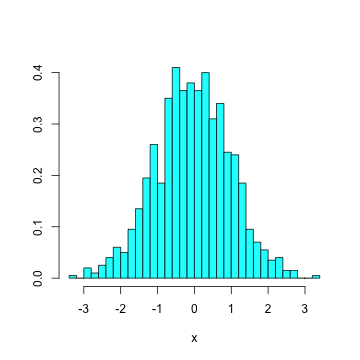
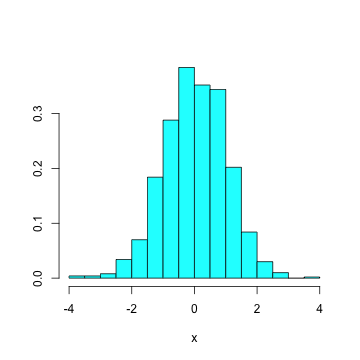
More bug fixes to r_basics

diff --git a/notes/r_basics.md b/notes/r_basics.md
@@ -10,12 +10,12 @@ R is controlled from a command line interface (CLI), or shell. Many platform-dep
 
 
 ```r
-# Import a package called \342\200\234MASS\342\200\235
+# Import a package called “MASS”
 library(MASS)
 # Generate 1000 standard normal random deviates, and
-#   assign them to variable \342\200\234x\342\200\235
+#   assign them to variable “x”
 x = rnorm(1000)
-# Do the same for \342\200\234y\342\200\235
+# Do the same for “y”
 y = rnorm(1000)
 # Return first 4 values of the vector x
 x[1:4]
@@ -24,7 +24,7 @@ x[1:4]
 
 
 ```
-[1] -1.4710  0.1954 -0.7531  0.2773
+[1] -0.8459  0.4320  0.7762 -0.4060
 ```
 
 
@@ -64,17 +64,17 @@ Call:
 lm(formula = y ~ x)
 
 Residuals:
-    Min      1Q  Median      3Q     Max 
--2.8966 -0.6555  0.0211  0.6615  2.8316 
+   Min     1Q Median     3Q    Max 
+-3.301 -0.677 -0.003  0.713  2.983 
 
 Coefficients:
             Estimate Std. Error t value Pr(>|t|)
-(Intercept)  0.01752    0.03061    0.57     0.57
-x            0.00976    0.03027    0.32     0.75
+(Intercept) -0.00266    0.03253   -0.08     0.93
+x            0.02430    0.03232    0.75     0.45
 
-Residual standard error: 0.968 on 998 degrees of freedom
-Multiple R-squared: 0.000104,	Adjusted R-squared: -0.000898 
-F-statistic: 0.104 on 1 and 998 DF,  p-value: 0.747 
+Residual standard error: 1.03 on 998 degrees of freedom
+Multiple R-squared: 0.000566,	Adjusted R-squared: -0.000435 
+F-statistic: 0.565 on 1 and 998 DF,  p-value: 0.452 
 
 ```
 
@@ -921,33 +921,6 @@ The following object(s) are masked from 'nests (position 3)':
 The following object(s) are masked from 'nests (position 4)':
 
     eggs, lat, lon, parasite, species
-The following object(s) are masked from 'nests (position 5)':
-
-    eggs, lat, lon, parasite, species
-The following object(s) are masked from 'nests (position 6)':
-
-    eggs, lat, lon, parasite, species
-The following object(s) are masked from 'nests (position 7)':
-
-    eggs, lat, lon, parasite, species
-The following object(s) are masked from 'nests (position 8)':
-
-    eggs, lat, lon, parasite, species
-The following object(s) are masked from 'nests (position 9)':
-
-    eggs, lat, lon, parasite, species
-The following object(s) are masked from 'nests (position 11)':
-
-    eggs, lat, lon, parasite, species
-The following object(s) are masked from 'nests (position 12)':
-
-    eggs, lat, lon, parasite, species
-The following object(s) are masked from 'nests (position 13)':
-
-    eggs, lat, lon, parasite, species
-The following object(s) are masked from 'nests (position 14)':
-
-    eggs, lat, lon, parasite, species
 ```
 
 
@@ -971,86 +944,22 @@ Files imported by `read.table` are restricted to delimited text data formats. Th
 
 This file is delimited by commas, and contains a header (a row of column names). Most modern spreadsheet programs can easily export to a comma-delimited text file, sometimes called a comma-separated values (CSV) file. This file can be imported directly into R:
 
+    import = read.table("nests.csv",header=TRUE,sep=",")
 
+`read.table` has a number of optional arguments (call `?read.table` for a comprehensive list), but the two most common are header, which specifies whether or not the first line in the file is a header, and sep, which denotes the separator character(s). Notice that this new data frame, import, is structured similarly to nests, except that the parasite column (indicating parasitism by cowbirds) is in a numeric mode, rather than a logical mode. It is not necessary to change it, unless we want to merge the two data frames. If so, we must coerce one of the frames into the same column types as the other, before combining them using the `rbind` function:
 
-```r
-import = read.table("more_nests.dat", header = TRUE, 
-    sep = ",")
-```
-
-
-
-```
-Warning message: cannot open file 'more_nests.dat': No such file or directory
-```
-
-
-
-```
-Error: cannot open the connection
-```
-
-
-
-```r
-import
-```
-
-
-
-```
-Error: object 'import' not found
-```
-
-
-
-
-read.table has a number of optional arguments (call ?read.table for a comprehensive list), but the two most common are header, which specifies whether or not the first line in the file is a header, and sep, which denotes the separator character(s). Notice that this new data frame, import, is structured similarly to nests, except that the parasite column (indicating parasitism by cowbirds) is in a numeric mode, rather than a logical mode. It is not necessary to change it, unless we want to merge the two data frames. If so, we must coerce one of the frames into the same column types as the other, before combining them using the rbind function:
-
-
-
-```r
-mode(import$parasite) = mode(nests$parasite)
-```
-
-
-
-```
-Error: object 'import' not found
-```
-
-
-
-```r
-nests = rbind(nests, import)
-```
-
-
-
-```
-Error: object 'import' not found
-```
-
-
-
-```r
-nests
-```
-
-
-
-```
-  species eggs parasite    lat   lon
-1    WEVI    4     TRUE -81.30 25.73
-2    WETA    3    FALSE -79.11 21.04
-```
-
-
-
+    > mode(import$parasite)= mode(nests$parasite)
+    > nests = rbind(nests,import)
+    > nests
+       species eggs parasite    lat   lon
+    1     WEVI    4     TRUE -81.30 25.73
+    2     WETA    3    FALSE -79.11 21.04
+    11    WOTH    2    FALSE -82.32 25.10
+    21    TOSO    2    FALSE -80.56 26.66
 
 A second very useful approach to importing data involves interfacing directly with a relational database management system (RDBMS). Relational databases are far more efficient for storing, maintaining and querying data than plain text files or spreadsheets, particularly for large datasets or multiple tables. A number of third parties have created packages for database access in R. For example, *RSQLite* is a package that provides connectivity for SQLite databases.
 
-Though most data can be imported either from a delimited text file or a relational database, there exist a variety of other methods for inviting your data into the R environment. A comprehensive (and relatively up-to-date) summary of data import and export techniques in R is available online at http://cran.r-project.org/doc/manuals/R-data.html
+Though most data can be imported either from a delimited text file or a relational database, there exist a variety of other methods for inviting your data into the R environment. A comprehensive (and relatively up-to-date) summary of data import and export techniques in R is [available online](http://cran.r-project.org/doc/manuals/R-data.html).
 
 ## Probability Distributions
 
@@ -1069,7 +978,7 @@ summary(ndata)
 
 ```
    Min. 1st Qu.  Median    Mean 3rd Qu.    Max. 
-  -2.67    1.99    3.34    3.33    4.80    7.96 
+  -2.94    1.24    2.87    2.81    4.40    9.60 
 ```
 
 
@@ -1090,7 +999,7 @@ mean(ndata) + qt(0.025, 99) * sqrt(var(ndata)/100)
 
 
 ```
-[1] 2.945
+[1] 2.375
 ```
 
 
@@ -1102,7 +1011,7 @@ mean(ndata) + qt(0.975, 99) * sqrt(var(ndata)/100)
 
 
 ```
-[1] 3.717
+[1] 3.248
 ```
 
 
@@ -1116,7 +1025,7 @@ Many analyses and models require more than single calls to pre-defined functions
 
     if (<condition>) {<do_something>} else {<do_something_else>}
 
-where `<condition>`` defines an expression that returns a logical (`TRUE`, `FALSE`) value, and `<do_something>` and `<do_something_else>` are expressions that are evaluated, depending on the outcome of the condition. For example, a simple conditional expression can be formulated that calculates the absolute value of a scalar variable:
+where `<condition>` defines an expression that returns a logical (`TRUE`, `FALSE`) value, and `<do_something>` and `<do_something_else>` are expressions that are evaluated, depending on the outcome of the condition. For example, a simple conditional expression can be formulated that calculates the absolute value of a scalar variable:
 
 
 
@@ -1180,8 +1089,7 @@ while (x <= 0) {
 
 
 ```
-[1] -0.4945
-[1] 0.03499
+[1] 0.2548
 ```
 
 
@@ -1204,11 +1112,8 @@ repeat {
 
 
 ```
-[1] -0.07699
-[1] -0.5986
-[1] -0.1159
-[1] -1.127
-[1] 0.5154
+[1] -0.8157
+[1] 1.445
 ```
 
 
@@ -1278,7 +1183,7 @@ barplot(t(aggregate(mdeaths + fdeaths, 1)), names = c(1974:1979),
     ylab = "deaths", xlab = "year", col = "red")
 ```
 
-![plot of chunk unnamed-chunk-51](https://github.com/fonnesbeck/Bios301/raw/master/notes/figure/unnamed-chunk-51.png) 
+![plot of chunk unnamed-chunk-49](https://github.com/fonnesbeck/Bios301/raw/master/notes/figure/unnamed-chunk-49.png) 
 
 
 This plots the number of lung cancer deaths (male and female) in the UK from 1974 to 1979. As with most of the plotting function, there are many optional arguments that can be used to customize the plot. It is essential to format the data appropriately for the function. In this case, the data was aggregated across months (function aggregate) and transposed.
@@ -1291,7 +1196,7 @@ Some more advanced functions allow for plotting of multivariate data. One method
 coplot(lat ~ long | depth, data = quakes)
 ```
 
-![plot of chunk unnamed-chunk-52](https://github.com/fonnesbeck/Bios301/raw/master/notes/figure/unnamed-chunk-52.png) 
+![plot of chunk unnamed-chunk-50](https://github.com/fonnesbeck/Bios301/raw/master/notes/figure/unnamed-chunk-50.png) 
 
 
 This gives a 3-dimensional snapshot of earthquake occurrence, showing latitude vs. longitude for each conditioning level of depth. The relationship among the variables is specified in the first argument; the response and predictive variables are separated by a tilde (`~`), while conditioning variables follow a pipe (`|`). The data argument allows us to omit the reference to the dataset for each variable.
@@ -1550,13 +1455,3 @@ Number of Fisher Scoring iterations: 4
 
 
 
-<!-- Scripts -->
-<script type="text/javascript" 
-    src="http://cdn.mathjax.org/mathjax/latest/MathJax.js?config=TeX-AMS-MML_HTMLorMML">
-</script>
-<script type="text/javascript">MathJax.Hub.Config({tex2jax: {processEscapes: true, 
-    processEnvironments: false, inlineMath: [ ['$','$'] ], 
-    displayMath: [ ['$$','$$'] ] }, 
-    asciimath2jax: {delimiters: [ ['$','$'] ] }, 
-    "HTML-CSS": {minScaleAdjust: 125 } });
-</script>
